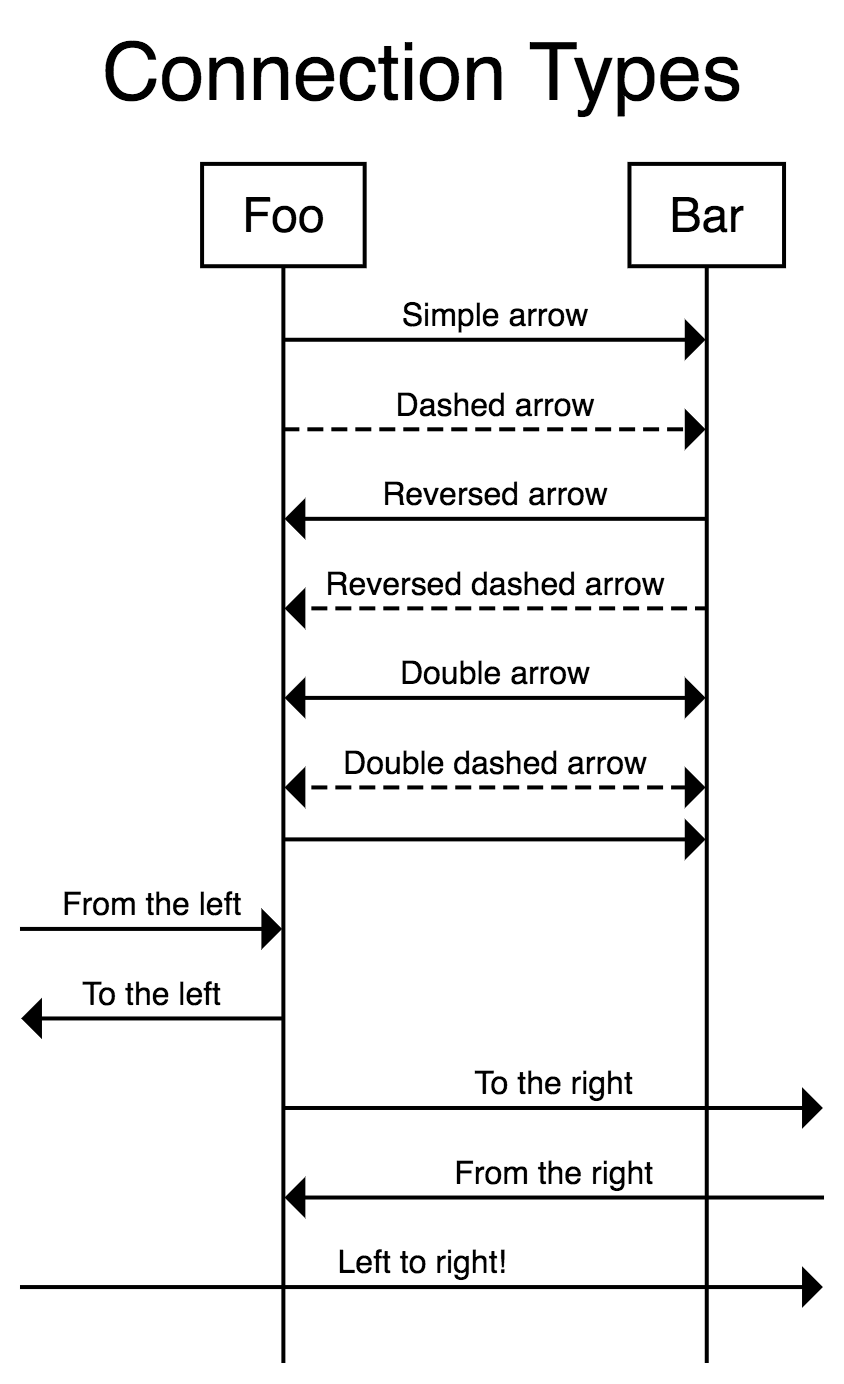
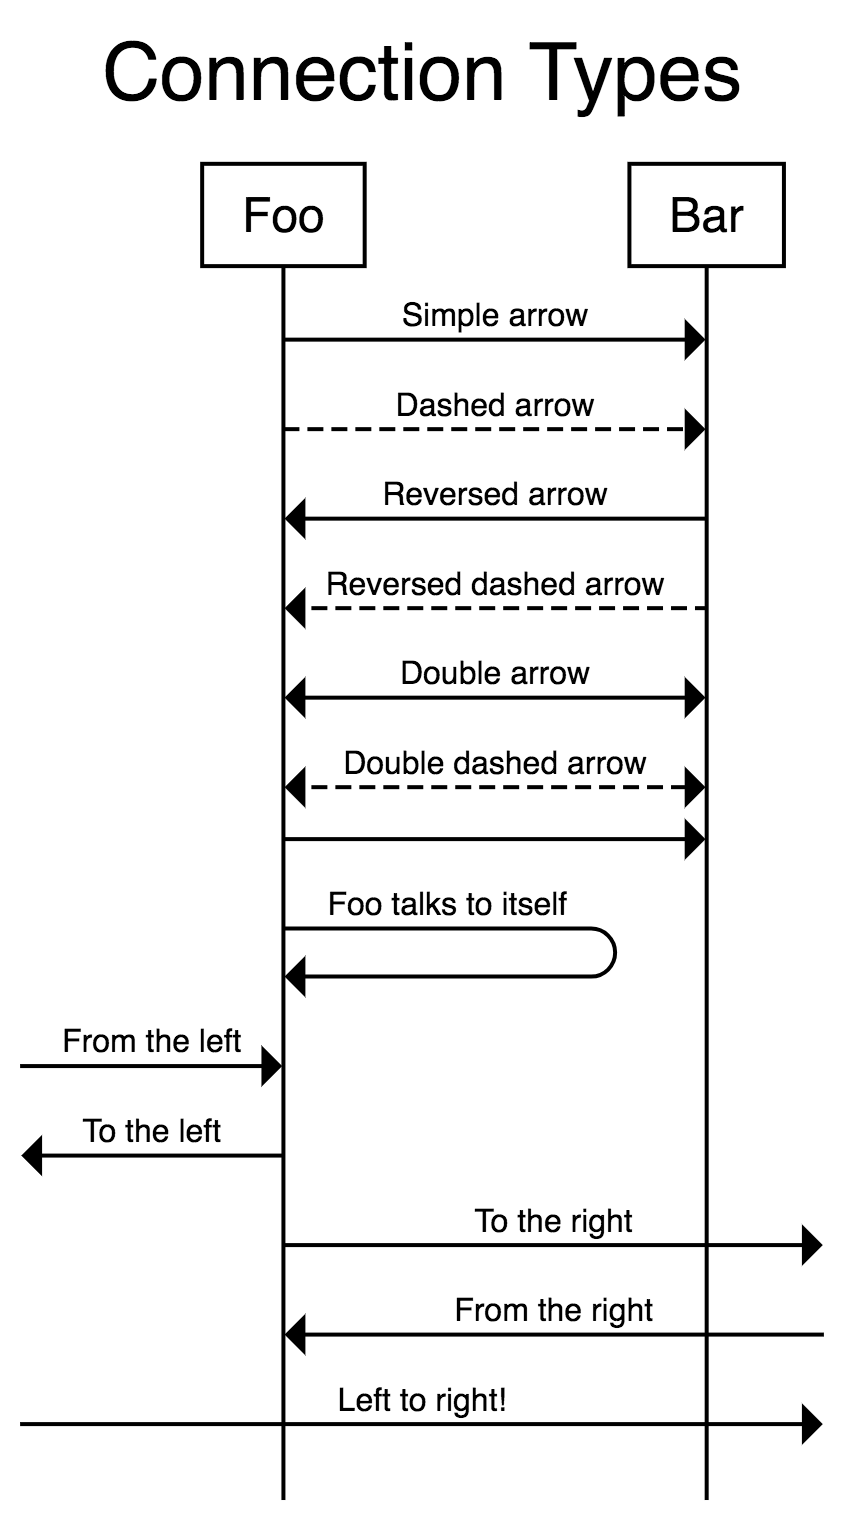
Support self-connections [#7]

Changed region(s): [[0.1232, 0.0, 0.9242, 0.6525], [0.0308, 0.7767, 0.9858, 0.9632], [0.0308, 0.6214, 0.3389, 0.7767]]

diff --git a/scripts/sequence/Renderer.js b/scripts/sequence/Renderer.js
@@ -241,15 +241,31 @@ define([
 		separationConnection({agents, label}) {
 			const config = this.theme.connect;
 
-			this.addSeparation(
-				agents[0],
-				agents[1],
-
+			const labelWidth = (
 				this.sizer.measure(config.label.attrs, label).width +
-				config.arrow.width * 2 +
-				config.label.padding * 2 +
-				this.theme.agentLineAttrs['stroke-width']
+				config.label.padding * 2
 			);
+			const strokeWidth = this.theme.agentLineAttrs['stroke-width'];
+
+			if(agents[0] === agents[1]) {
+				const agentSpaces = new Map();
+				agentSpaces.set(agents[0], {
+					left: 0,
+					right: (
+						labelWidth +
+						config.arrow.width +
+						strokeWidth +
+						config.loopbackRadius
+					),
+				});
+				this.addSeparations(this.visibleAgents, agentSpaces);
+			} else {
+				this.addSeparation(
+					agents[0],
+					agents[1],
+					labelWidth + config.arrow.width * 2 + strokeWidth
+				);
+			}
 		}
 
 		separationNoteOver({agents, mode, label}) {
@@ -463,7 +479,79 @@ define([
 			this.currentY += maxHeight + this.theme.actionMargin;
 		}
 
-		renderConnection({label, agents, line, left, right}) {
+		renderSelfConnection({label, agents, line, left, right}) {
+			const config = this.theme.connect;
+			const from = this.agentInfos.get(agents[0]);
+
+			const dy = config.arrow.height / 2;
+			const short = this.theme.agentLineAttrs['stroke-width'];
+
+			const height = (
+				this.sizer.measureHeight(config.label.attrs, label) +
+				config.label.margin.top +
+				config.label.margin.bottom
+			);
+
+			const y0 = this.currentY + Math.max(dy, height);
+			const x0 = (
+				from.x +
+				short +
+				config.arrow.width +
+				config.label.padding
+			);
+
+			const renderedText = SVGShapes.renderBoxedText(label, {
+				x: x0 - config.mask.padding.left,
+				y: y0 - height + config.label.margin.top,
+				padding: config.mask.padding,
+				boxAttrs: config.mask.maskAttrs,
+				labelAttrs: config.label.loopbackAttrs,
+				boxLayer: this.mask,
+				labelLayer: this.actionLabels,
+			});
+			const r = config.loopbackRadius;
+			const x1 = (
+				x0 +
+				renderedText.width +
+				config.label.padding -
+				config.mask.padding.left -
+				config.mask.padding.right
+			);
+			const y1 = y0 + r * 2;
+
+			this.actionShapes.appendChild(svg.make('path', Object.assign({
+				'd': (
+					'M ' + (from.x + (left ? short : 0)) + ' ' + y0 +
+					' L ' + x1 + ' ' + y0 +
+					' A ' + r + ' ' + r + ' 0 0 1 ' + x1 + ' ' + y1 +
+					' L ' + (from.x + (right ? short : 0)) + ' ' + y1
+				),
+			}, config.lineAttrs[line])));
+
+			if(left) {
+				drawHorizontalArrowHead(this.actionShapes, {
+					x: from.x + short,
+					y: y0,
+					dx: config.arrow.width,
+					dy,
+					attrs: config.arrow.attrs,
+				});
+			}
+
+			if(right) {
+				drawHorizontalArrowHead(this.actionShapes, {
+					x: from.x + short,
+					y: y1,
+					dx: config.arrow.width,
+					dy,
+					attrs: config.arrow.attrs,
+				});
+			}
+
+			this.currentY = y1 + dy + this.theme.actionMargin;
+		}
+
+		renderSimpleConnection({label, agents, line, left, right}) {
 			const config = this.theme.connect;
 			const from = this.agentInfos.get(agents[0]);
 			const to = this.agentInfos.get(agents[1]);
@@ -518,6 +606,14 @@ define([
 			}
 
 			this.currentY = y + dy + this.theme.actionMargin;
+		}
+
+		renderConnection(stage) {
+			if(stage.agents[0] === stage.agents[1]) {
+				this.renderSelfConnection(stage);
+			} else {
+				this.renderSimpleConnection(stage);
+			}
 		}
 
 		renderNote({xMid = null, x0 = null, x1 = null}, anchor, mode, label) {

diff --git a/scripts/sequence/themes/Basic.js b/scripts/sequence/themes/Basic.js
@@ -59,6 +59,7 @@ define([
 		},
 
 		connect: {
+			loopbackRadius: 6,
 			lineAttrs: {
 				'solid': {
 					'fill': 'none',
@@ -90,6 +91,11 @@ define([
 					'font-size': 8,
 					'line-height': LINE_HEIGHT,
 					'text-anchor': 'middle',
+				},
+				loopbackAttrs: {
+					'font-family': 'sans-serif',
+					'font-size': 8,
+					'line-height': LINE_HEIGHT,
 				},
 			},
 			mask: {

diff --git a/README.md b/README.md
@@ -50,6 +50,8 @@ Foo <--> Bar: Double dashed arrow
 # An arrow with no label:
 Foo -> Bar
 
+Foo -> Foo: Foo talks to itself
+
 # Arrows leaving on the left and right of the diagram
 [ -> Foo: From the left
 [ <- Foo: To the left
